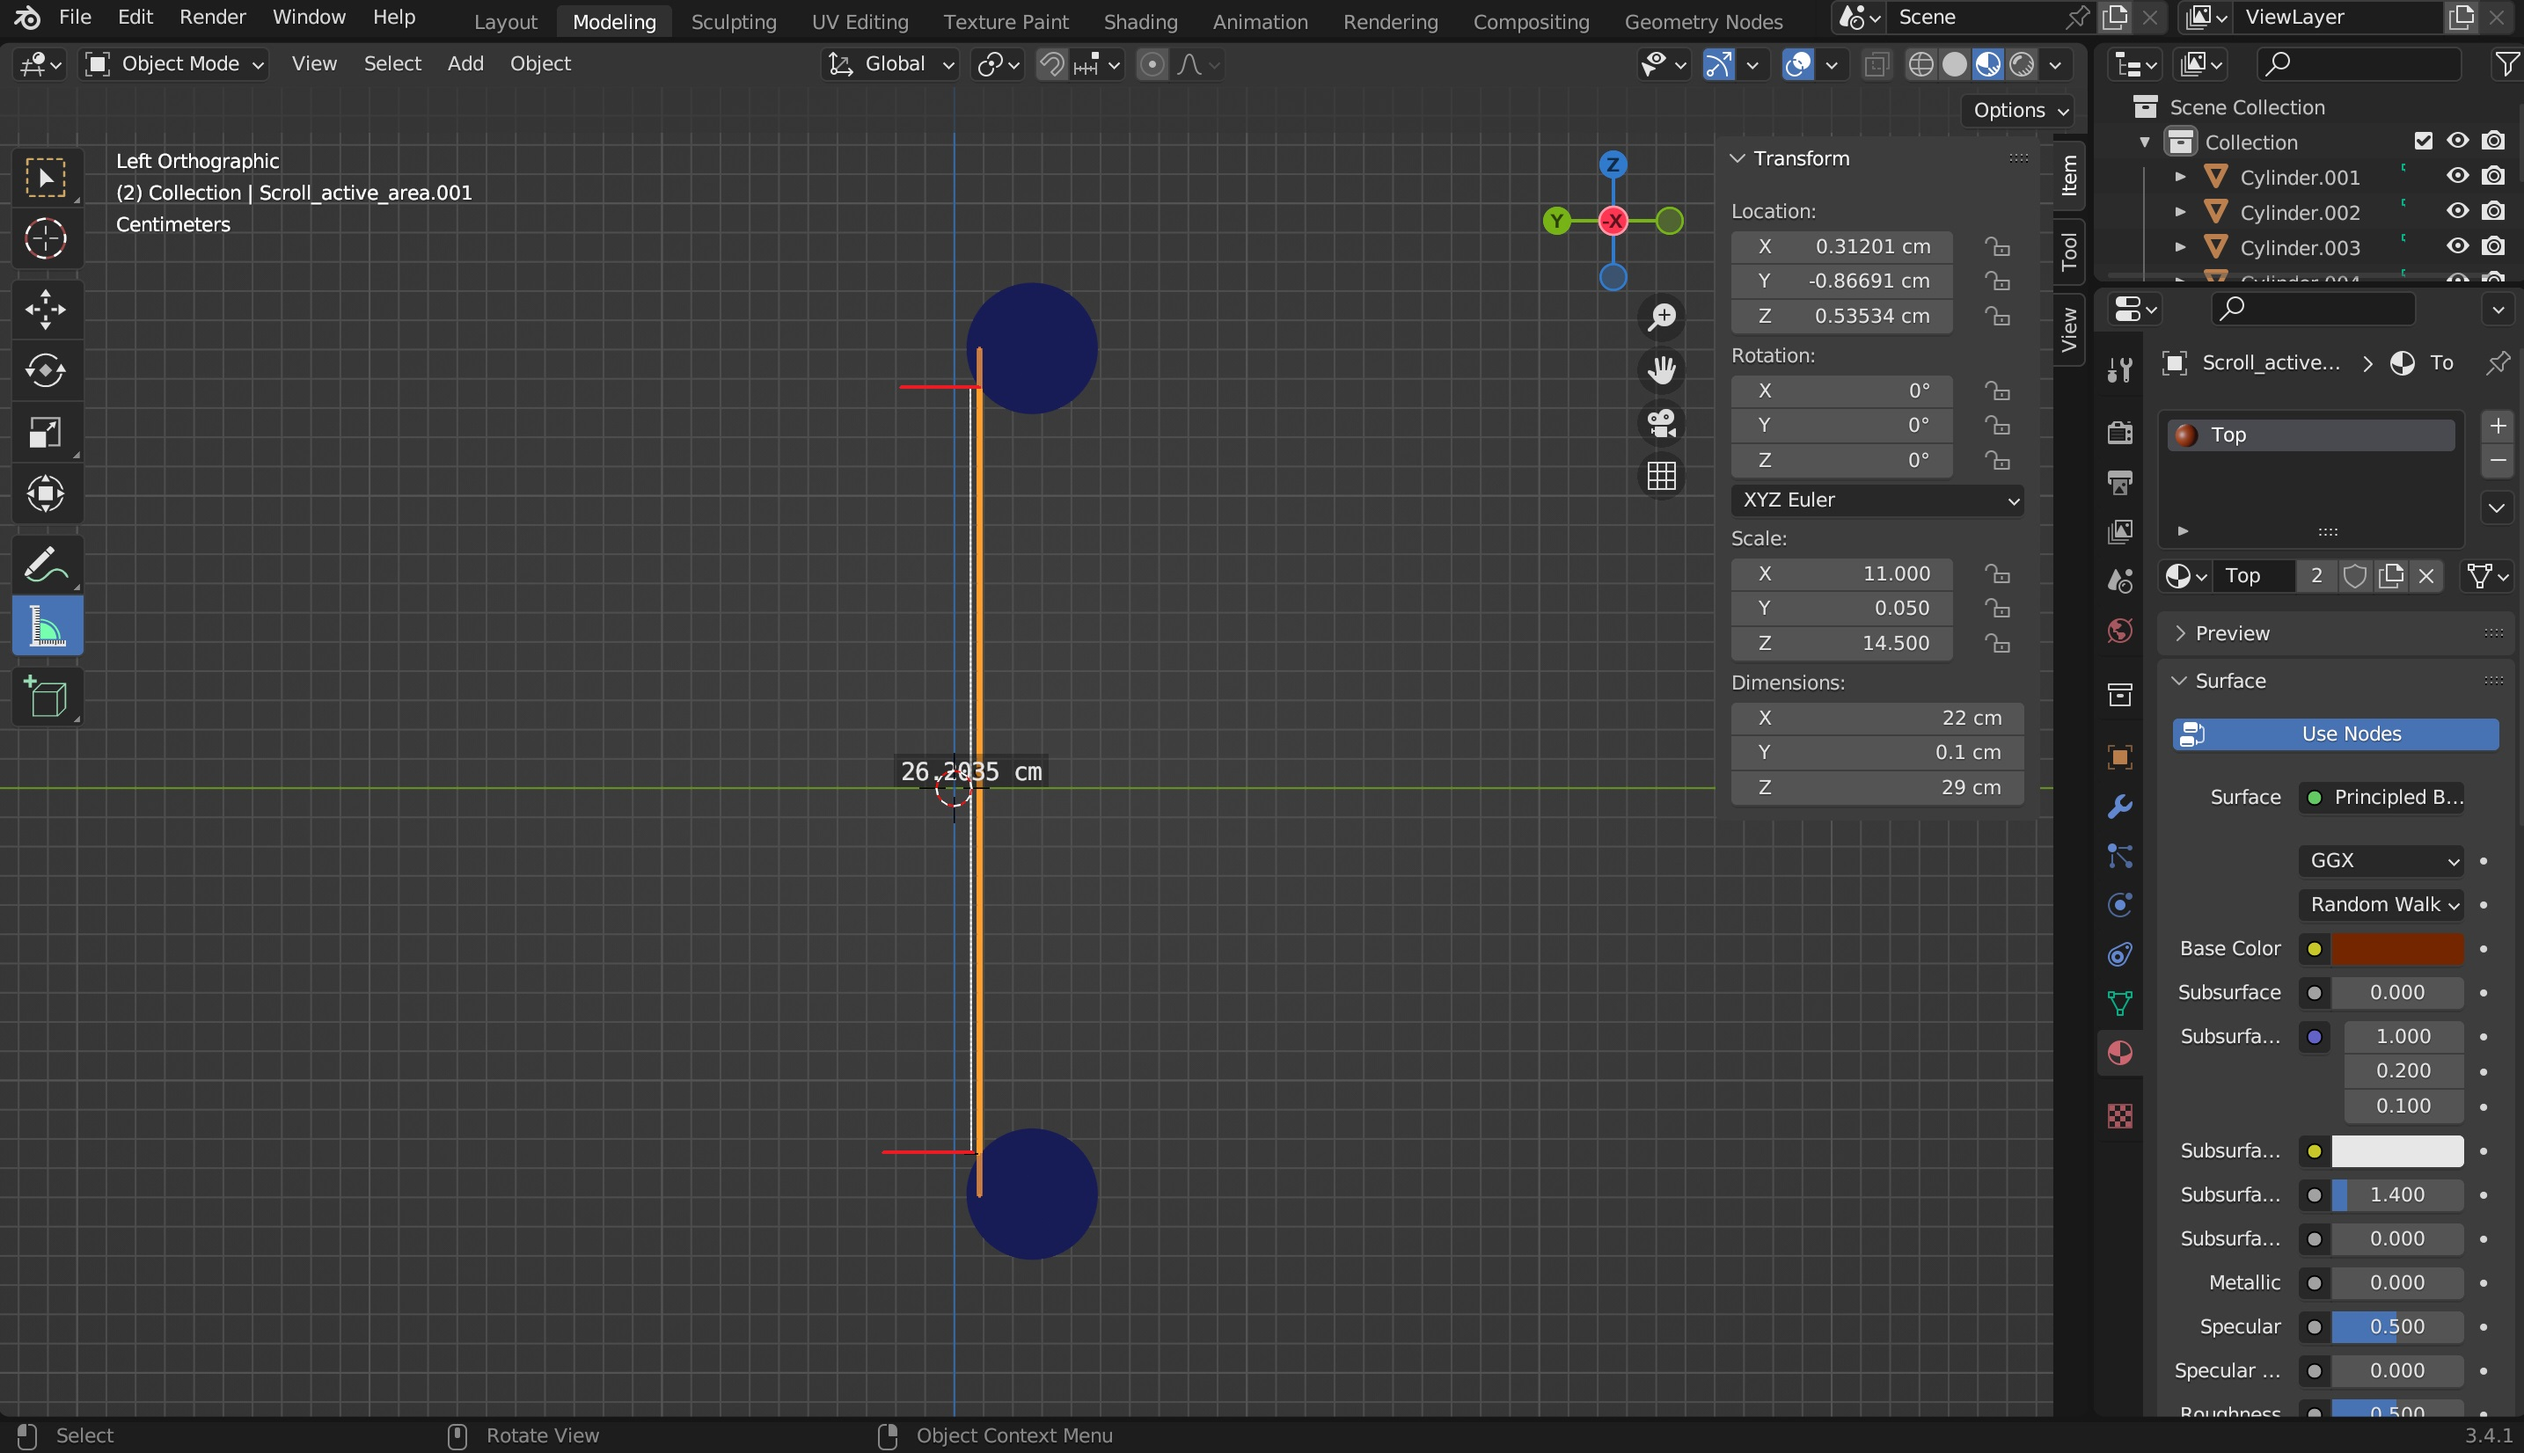
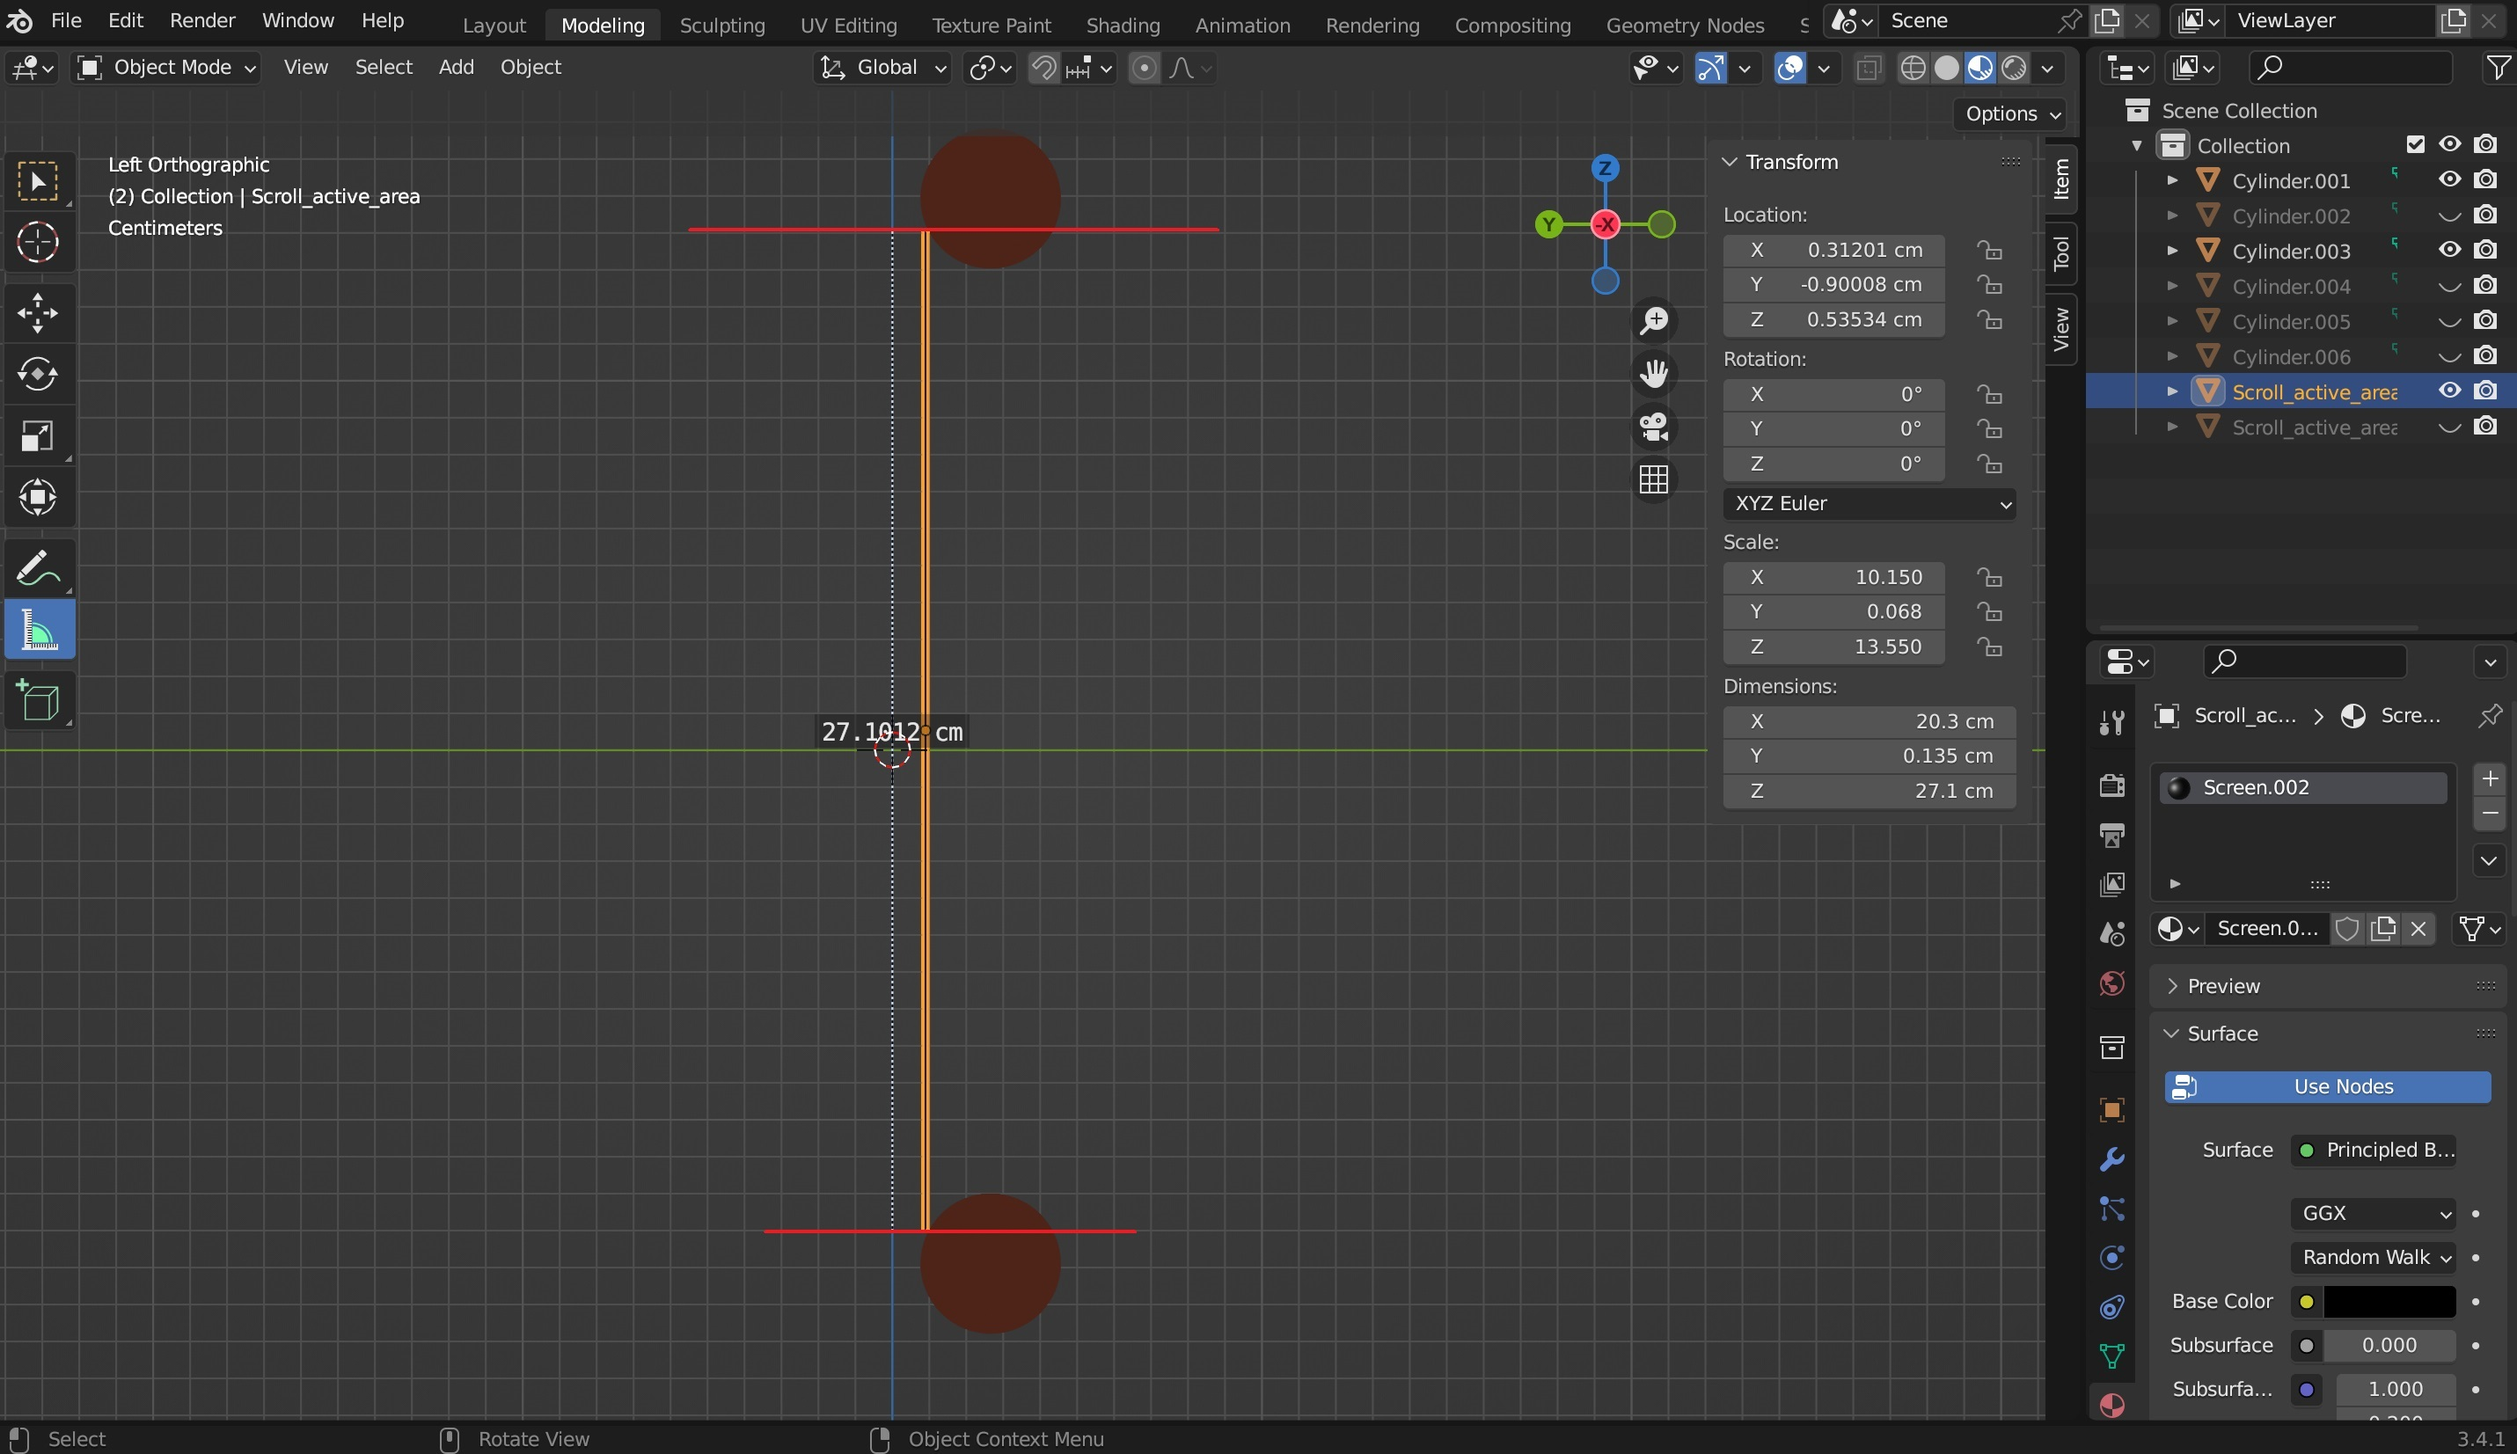
add

diff --git a/technical_task_scroll/tech_task_for_modeling_scroll.md b/technical_task_scroll/tech_task_for_modeling_scroll.md
@@ -38,7 +38,7 @@ https://www.artstation.com/artwork/04zYQe
 
 1 - Верхняя планка - диаметр 3.8 см, ширина 25 см.   
 2 - Нижняя планка - диаметр 3.8 см, ширина 25 см.   
-3 - Активная область - ширина 20.3 см, высота 28.4 см, толщина 1.35 мм. Она плотно прилегает к планкам сверху и снизу, и немного заходит внутрь планок (размеры смотри ниже).   
+3 - Активная область - ширина 20.3 см, высота 27.1 см, толщина 1.35 мм. Она плотно прилегает к планкам сверху и снизу, и немного заходит внутрь планок (размеры смотри ниже).   
 4 - Обрамление - ширина 0.85 см по краям.   
 5 - Наконечники - размеры подбираются индивидуально, около 1.5 см ширина каждого.         
 6 - Дракон - размеры подбираются индивидуально и исходя из референсов (о нем смотри ниже).   
@@ -47,17 +47,14 @@ https://www.artstation.com/artwork/04zYQe
 Ширина 20.3 см.   
 <img src="https://github.com/SeeNotEvil/design_task/blob/main/technical_task_scroll/size_active_area_2.jpg" width="400">  
 
-Высота 28.4 см.   
+Общая высота 28.4 см.   
 <img src="https://github.com/SeeNotEvil/design_task/blob/main/technical_task_scroll/size_active_area.jpg" width="400"/> 
 
 Толщина 1.35 мм.   
 <img src="https://github.com/SeeNotEvil/design_task/blob/main/technical_task_scroll/plank_add.jpg" width="400"/>  
 
-Высоты видимой активной зоны, примерно 26.2 см.      
+Высоты активной зоны 27.1 см.   
 <img src="https://github.com/SeeNotEvil/design_task/blob/main/technical_task_scroll/plank_add_2.jpg" width="400"/>  
-
-Высота центральной области, от внутреннего края верхней планки до внутреннего края нижней планки, примерно ~ 25.2 см.   
-<img src="https://github.com/SeeNotEvil/design_task/blob/main/technical_task_scroll/size_active_view_area.jpg" width="400">
 
 #### Планки   
 Диаметр 3.8 см.   
